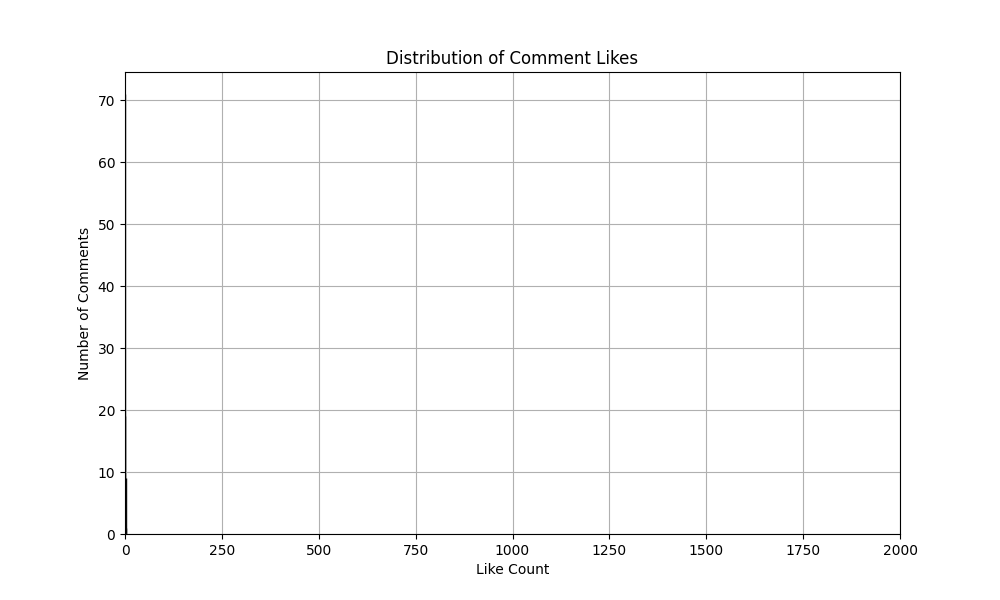
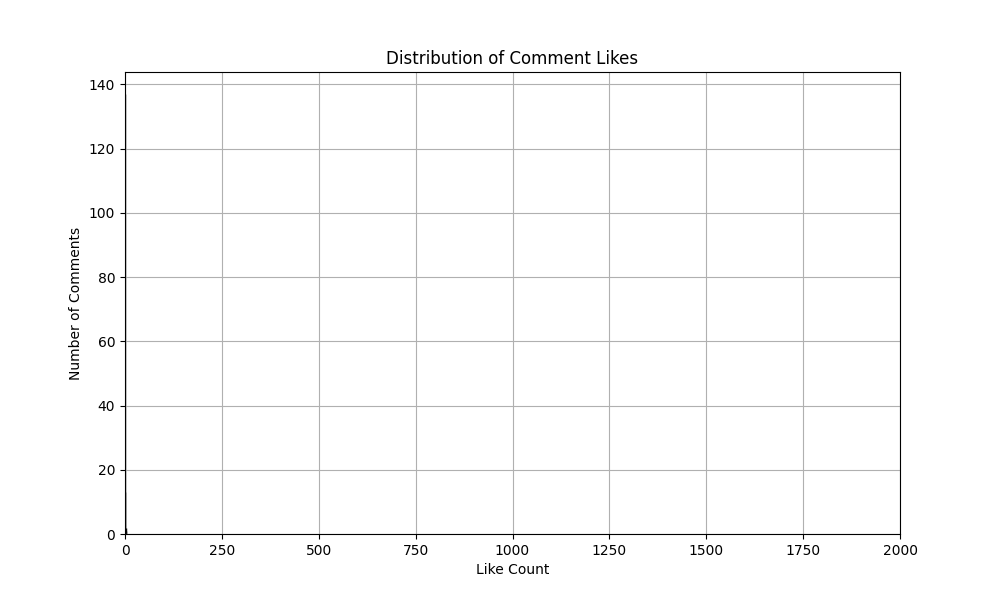
added translation features

diff --git a/templates/index.html b/templates/index.html
@@ -16,6 +16,7 @@
         <nav>
             <ul class="flex space-x-4">
                 <li><a href="/" class="text-white">Home</a></li>
+                <li><a href="/how_it_works" class="text-white">How It Works</a></li>
                 <li><a href="/about" class="text-white">About</a></li>
             </ul>
         </nav>
@@ -38,6 +39,17 @@
                 <!-- YouTube URL Form -->
                 <form action="/submit_url" method="POST" class="w-full">
                     <input type="text" name="youtube_url" placeholder="Paste YouTube video URL" class="w-full p-4 mb-2 bg-gray-700 text-white rounded-full">
+                    
+                    <!-- Slider for number of comments -->
+                    <label for="num_comments" class="block text-white mb-2">Number of Comments to Fetch:</label>
+                    <input type="range" id="num_comments" name="num_comments" min="10" max="3000" value="100" class="w-full mb-4">
+                    <span id="num_comments_value" class="text-white">100</span>
+
+                    <!-- Slider for maximum comment length -->
+                    <label for="max_comment_length" class="block text-white mb-2">Maximum Comment Length:</label>
+                    <input type="range" id="max_comment_length" name="max_comment_length" min="10" max="150" value="20" class="w-full mb-4">
+                    <span id="max_comment_length_value" class="text-white">20</span>
+
                     <button type="submit" class="w-full p-4 bg-red-500 text-white rounded-full">Submit URL</button>
                 </form>
             
@@ -60,6 +72,18 @@
             urlForm.addEventListener('submit', function() {
                 document.getElementById('loadingScreen').classList.remove('hidden');
             });
+            // Update slider values
+            const numCommentsSlider = document.getElementById('num_comments');
+            const numCommentsValue = document.getElementById('num_comments_value');
+            numCommentsSlider.oninput = function() {
+                numCommentsValue.textContent = this.value;
+            };
+
+            const maxCommentLengthSlider = document.getElementById('max_comment_length');
+            const maxCommentLengthValue = document.getElementById('max_comment_length_value');
+            maxCommentLengthSlider.oninput = function() {
+                maxCommentLengthValue.textContent = this.value;
+            };
         </script>
 
     </main>

diff --git a/templates/how_it_works.html b/templates/how_it_works.html
@@ -1,0 +1,36 @@
+<!DOCTYPE html>
+<html lang="en">
+<head>
+    <meta charset="UTF-8">
+    <meta name="viewport" content="width=device-width, initial-scale=1.0">
+    <title>How It Works - YouTube Comment Sentiment Analysis</title>
+    <script src="https://cdn.tailwindcss.com"></script>
+    <link rel="stylesheet" href="https://cdnjs.cloudflare.com/ajax/libs/font-awesome/5.15.3/css/all.min.css">
+</head>
+<body class="bg-black text-white">
+    <header class="bg-gray-800 p-4 flex justify-between items-center">
+        <div class="flex items-center">
+            <i class="fas fa-chart-line text-white text-2xl mr-2"></i>
+            <span class="text-white text-xl font-semibold">YouTubeCommentSentiment</span>
+        </div>
+        <nav>
+            <ul class="flex space-x-4">
+                <li><a href="/" class="text-white">Home</a></li>
+                <li><a href="/how_it_works" class="text-white">How It Works</a></li>
+                <li><a href="/about" class="text-white">About</a></li>
+            </ul>
+        </nav>
+    </header>
+
+    <main class="flex flex-col items-center justify-center min-h-screen">
+        <h1 class="text-4xl font-bold mb-4">How It Works</h1>
+        <div class="w-full max-w-2xl p-4 bg-gray-700 rounded-lg">
+            <h2 class="text-2xl font-semibold mb-2">Model Structure</h2>
+            <p class="mb-4">Here you can describe the architecture of your LSTM model, including layers, activation functions, and any other relevant details.</p>
+            
+            <h2 class="text-2xl font-semibold mb-2">Implementation Details</h2>
+            <p>Explain how you preprocess the data, train the model, and any other steps involved in the sentiment analysis process.</p>
+        </div>
+    </main>
+</body>
+</html>

diff --git a/templates/youtube.html b/templates/youtube.html
@@ -14,8 +14,9 @@
         </div>
         <nav>
             <ul class="flex space-x-4">
-                <li><a href="/" class="text-white hover:text-gray-300">Home</a></li>
-                <li><a href="/about" class="text-white hover:text-gray-300">About</a></li>
+                <li><a href="/" class="text-white">Home</a></li>
+                <li><a href="/how_it_works" class="text-white">How It Works</a></li>
+                <li><a href="/about" class="text-white">About</a></li>
             </ul>
         </nav>
     </header>

diff --git a/app.py b/app.py
@@ -18,8 +18,12 @@ from nltk.corpus import stopwords
 from nltk.tokenize import word_tokenize
 from nltk.stem import WordNetLemmatizer
 from sklearn.feature_extraction.text import TfidfVectorizer
+from langdetect import detect
+from googletrans import Translator
 
 app = Flask(__name__)
+
+translator = Translator()
 
 sentiment_last="Positive"
 last_video_id="DLET_u31M4M"
@@ -86,8 +90,26 @@ def fetch_video_details(youtube, video_id):
     video_title = video_response['items'][0]['snippet']['title']
     return video_title
 
+def translate_to_english(comment):
+    try:
+        translation = translator.translate(comment, src='hi', dest='en')
+        return translation.text
+    except Exception as e:
+        print(f"Translation error: {e}")
+    return comment
+
+def detect_hinglish(comment):
+    try:
+        lang = detect(comment)
+        # Simple heuristic to identify Hinglish
+        if lang == 'en' and any(word in comment for word in ['hai', 'kya', 'nahi', 'kaise']):
+            return True
+        return False
+    except:
+        return False
+    
 # Function to fetch comments
-def fetch_comments(youtube, video_id, max_comments=100):
+def fetch_comments(youtube, video_id, max_comments=100, max_comment_length=150):
     comments = []
     next_page_token = None
     while True:
@@ -101,16 +123,16 @@ def fetch_comments(youtube, video_id, max_comments=100):
 
         for item in response['items']:
             comment = item['snippet']['topLevelComment']['snippet']
-            comments.append([
-                comment['authorDisplayName'],
-                comment['publishedAt'],
-                comment['updatedAt'],
-                comment['likeCount'],
-                comment['textDisplay'],
-                len(comment['textDisplay'])  # Add comment length for later analysis
-            ])
-            if len(comments) >= max_comments:
-                break
+            comment_text = comment['textDisplay']
+            if len(comment_text) <= max_comment_length:
+                comments.append([
+                    comment['authorDisplayName'],
+                    comment['publishedAt'],
+                    comment['updatedAt'],
+                    comment['likeCount'],
+                    comment_text,
+                    len(comment_text)  # Add comment length for later analysis
+                ])
 
         if len(comments) >= max_comments or not response.get('nextPageToken'):
             break
@@ -201,6 +223,9 @@ stop_words = set(stopwords.words('english'))
 
 # Function to clean and preprocess comments
 def clean_and_preprocess_comments(comment):
+    
+    if detect_hinglish(comment):
+           comment = translate_to_english(comment)
     # Convert to lowercase
     comment = comment.lower()
     # Remove URLs
@@ -266,6 +291,9 @@ def prepare_top_comments(df):
 @app.route('/submit_url', methods=['POST'])
 def submit_url():
     youtube_url = request.form.get('youtube_url')
+    num_comments = int(request.form.get('num_comments', 100))
+    max_comment_length = int(request.form.get('max_comment_length', 150))
+
     if not youtube_url:
         return "No URL provided", 400
 
@@ -276,7 +304,7 @@ def submit_url():
 
     video_id = extract_video_id(youtube_url)
     video_title = fetch_video_details(youtube, video_id)
-    df = fetch_comments(youtube, video_id, max_comments=100)
+    df = fetch_comments(youtube, video_id, max_comments=num_comments, max_comment_length=max_comment_length)
 
     create_plots(df)
 
@@ -340,7 +368,9 @@ def last_fetch_fucn():
                            video_title=last_title,
                            video_id=last_video_id)
 
-
+@app.route('/how_it_works')
+def how_it_works():
+    return render_template('how_it_works.html')
 
 if __name__ == '__main__':
     app.run(debug=True)
